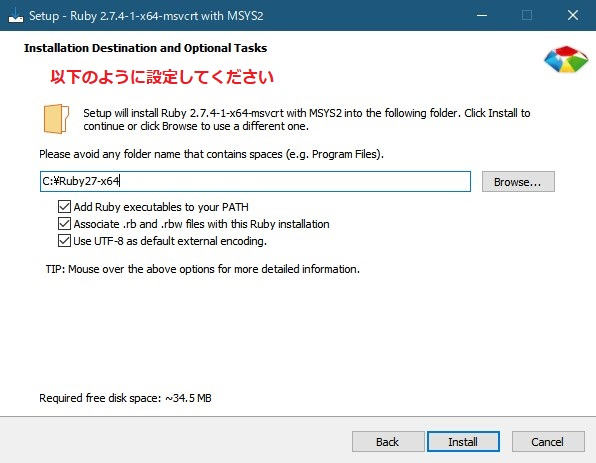
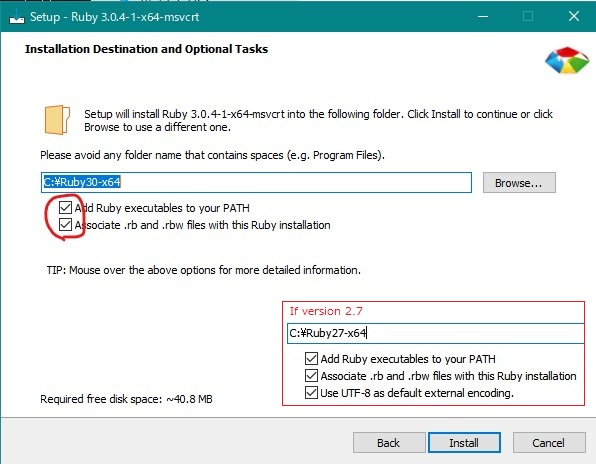
Ruby2.7/3.0/3.1用

diff --git a/Download_Fonts.rb b/Download_Fonts.rb
@@ -2,7 +2,20 @@
 
 require 'open-uri'
 
-Dir.glob("C:/Ruby27-x64/lib/ruby/gems/2.7.0/gems/asciidoctor-pdf-*/data/fonts/") do |item|
+if Dir.exist?("C:/Ruby31-x64/") then
+  RubyGemsDir = "C:/Ruby31-x64/lib/ruby/gems/3.1.0/gems/"
+elsif Dir.exist?("C:/Ruby30-x64/") then
+  RubyGemsDir = "C:/Ruby30-x64/lib/ruby/gems/3.0.0/gems/"
+elsif Dir.exist?("C:/Ruby27-x64/") then
+  RubyGemsDir = "C:/Ruby27-x64/lib/ruby/gems/2.7.0/gems/"
+else
+  puts "Ruby not found in c:/"
+  exit
+end
+
+puts "Ruby gems are in " + RubyGemsDir
+
+Dir.glob(RubyGemsDir + "asciidoctor-pdf-*/data/fonts/") do |item|
   FontsDir = File.expand_path(item)
 end
 

diff --git a/README.md b/README.md
@@ -1,16 +1,18 @@
 # install_asciidoctor-pdf
 
-asciidoctor-pdfをインストールするためのbatファイル。Ruby2.7系、x64ビットWindows用、asciidoctor-pdf-cjk対応（asciidoctor-pdf v1.5系）。
+asciidoctor-pdfをインストールするためのbatファイル。Ruby2.7／3.0／3.1系、x64ビットWindows用。
+
+asciidoctor-pdf-cjk対応版は、上部のtagsの「For_asciidoctor-pdf-cjk」を参考にしてください。
 
 ## batファイルの使い方
 
-* [こちら](https://rubyinstaller.org/downloads/)から、Ruby2.7系、x64ビットWindows用のインストーラをダウンロードします。(+Devkitじゃない方)
-* 「1_Install_Ruby26_x64.bat」のあるフォルダにRubyのインストーラをコピーします。
+* [こちら](https://rubyinstaller.org/downloads/)から、Ruby2.7／3.0／3.1系いずれかのx64ビットWindows用のインストーラをダウンロードします。(+Devkitじゃない方でOKです)
+* 「1_Install_Ruby30_x64.bat」のあるフォルダにRubyのインストーラをコピーします。
 * Proxyを設定する時は、「http_prosy.txt」と「https_proxy.txt」に入力してください。書式は以下の通りです。`http://`を付け忘れないこと。また、`http://user:password@・・・`とするとエラーになるようです。
 
 ```
 http://プロキシのアドレス:ポート番号
 ```
 
-* すでにインストールされているRubyはアンインストールし、残ったフォルダは、**必 ず** 削除してください。
-* 「1_Install_Ruby26_x64.bat」 ⇒ 「2_Install_Modules.bat」 ⇒ 「3_Install_Fonts.bat」の順で実行します。
+* すでにインストールされているRubyは必ずアンインストールし、残ったフォルダは削除してください。
+* 「1_Install_Ruby_x64.bat」 ⇒ 「2_Install_Modules.bat」 ⇒ 「3_Install_Fonts.bat」の順で実行します。（フォルダ名はデフォルト設定で）
